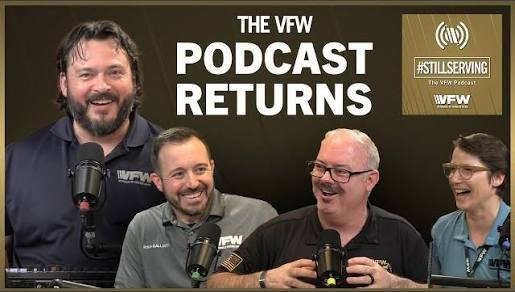
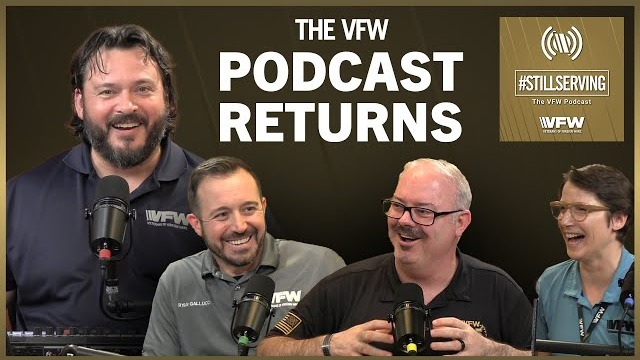
VFW proposal: higher-res team photo, and room between heading lines
- Swap the team shot for the 640x480 original. Trimmed of its letterboxing it
  is 640x360 — a clean 16:9, and wider than the 560px slot it fills, so it is
  no longer being upscaled the way the 515px version was
- Open section headings from the 1.11 line-height that ships with text-4xl to
  1.25. The override needs the sm: variant as well, since sm:text-4xl sets a
  line-height inside a media query that an unprefixed leading- class loses to

diff --git a/client/src/pages/SponsorVFW.tsx b/client/src/pages/SponsorVFW.tsx
@@ -139,7 +139,7 @@ export default function SponsorVFW() {
         <div className="grid gap-12 lg:grid-cols-[0.85fr_1.15fr]">
           <div>
             <div className="text-xs font-semibold uppercase tracking-[0.18em] text-[#F0A71F]">The day</div>
-            <h2 className="mt-3 text-3xl font-bold tracking-tight sm:text-4xl" style={HEADLINE_FONT}>
+            <h2 className="mt-3 text-3xl font-bold leading-[1.25] tracking-tight sm:text-4xl sm:leading-[1.25]" style={HEADLINE_FONT}>
               One day that brings the whole mil/vet podcast community together.
             </h2>
           </div>
@@ -165,7 +165,7 @@ export default function SponsorVFW() {
         <section id="lineup" className="scroll-mt-16 border-y border-border bg-muted/30 py-16 lg:py-20">
           <div className="mx-auto max-w-6xl px-4 sm:px-6">
             <div className="text-xs font-semibold uppercase tracking-[0.18em] text-[#F0A71F]">The lineup so far</div>
-            <h2 className="mt-3 max-w-3xl text-3xl font-bold tracking-tight sm:text-4xl" style={HEADLINE_FONT}>
+            <h2 className="mt-3 max-w-3xl text-3xl font-bold leading-[1.25] tracking-tight sm:text-4xl sm:leading-[1.25]" style={HEADLINE_FONT}>
               Shows already on the board.
             </h2>
             <p className="mt-3 max-w-2xl text-muted-foreground">
@@ -215,7 +215,7 @@ export default function SponsorVFW() {
                   <div className="text-xs font-semibold uppercase tracking-[0.18em]" style={{ color: GOLD }}>
                     Your place on the board
                   </div>
-                  <h3 className="mt-3 text-2xl font-bold tracking-tight sm:text-3xl" style={HEADLINE_FONT}>
+                  <h3 className="mt-3 text-2xl font-bold leading-[1.25] tracking-tight sm:text-3xl sm:leading-[1.25]" style={HEADLINE_FONT}>
                     #StillServing joins the lineup.
                   </h3>
                   <p className="mt-3 leading-relaxed text-muted-foreground">
@@ -326,7 +326,7 @@ export default function SponsorVFW() {
 
       {/* --------------------------------------------------------------- CTA */}
       <section className="mx-auto max-w-4xl px-4 py-20 text-center sm:px-6">
-        <h2 className="text-3xl font-bold tracking-tight sm:text-4xl" style={HEADLINE_FONT}>
+        <h2 className="text-3xl font-bold leading-[1.25] tracking-tight sm:text-4xl sm:leading-[1.25]" style={HEADLINE_FONT}>
           Let's put the VFW on the air.
         </h2>
         <p className="mx-auto mt-4 max-w-xl text-lg leading-relaxed text-muted-foreground">
